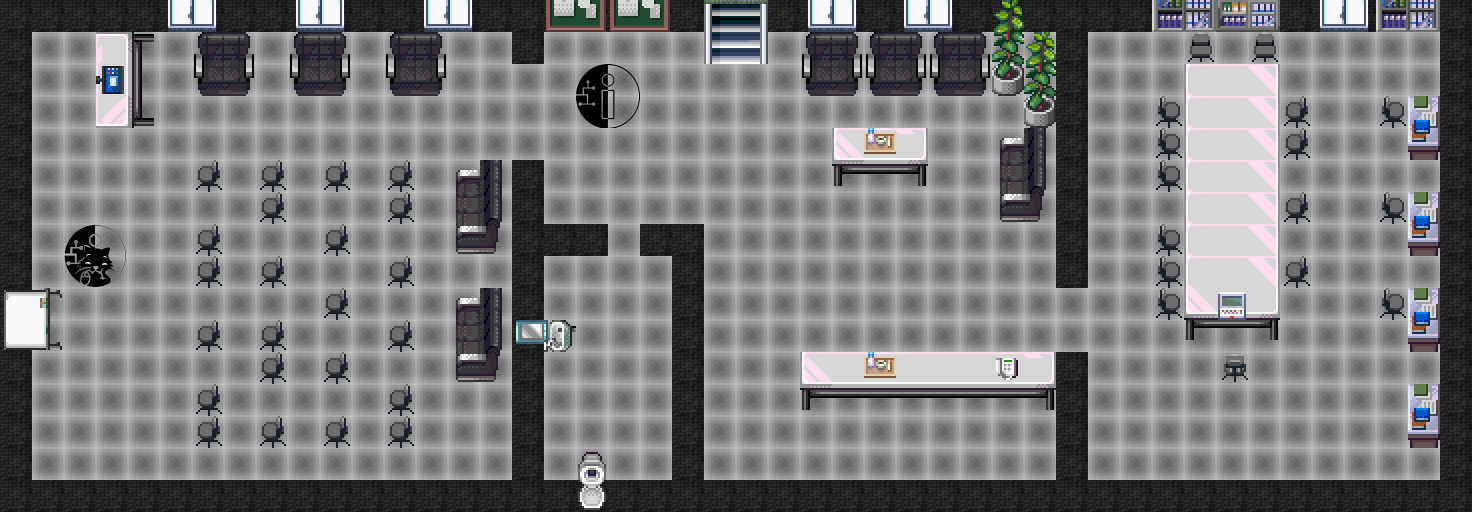
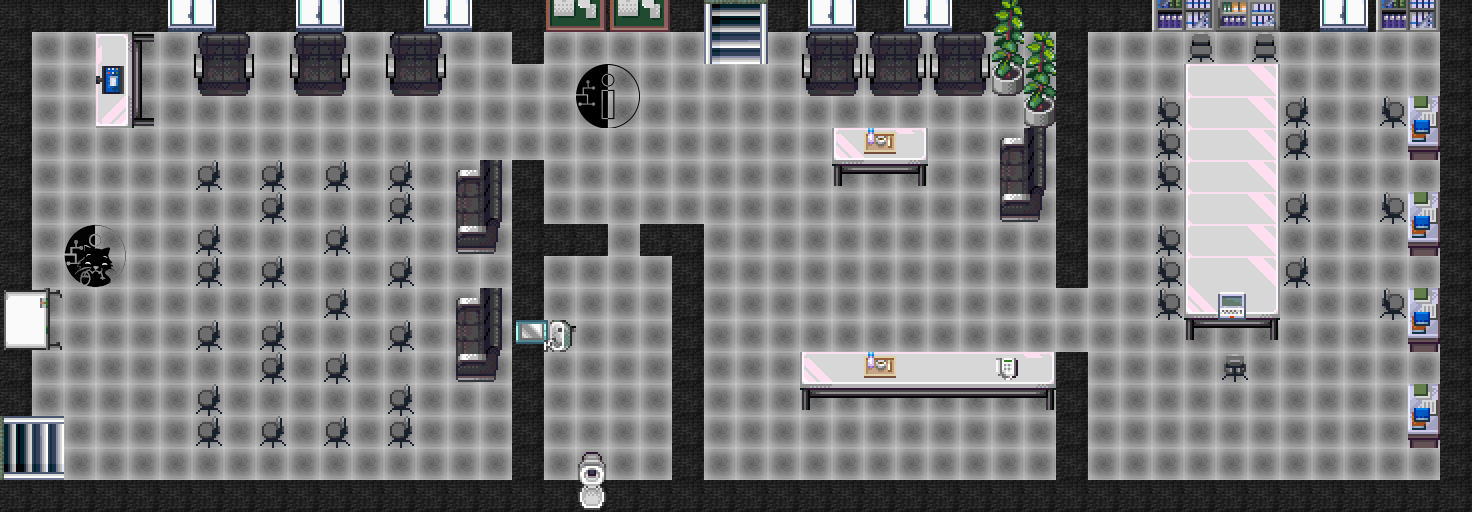
updated map images

Changed region(s): [[0.0, 0.8125, 0.0625, 0.9375]]

diff --git a/README.md b/README.md
@@ -3,7 +3,14 @@
 A map for [WorkAdventure](https://workadventu.re) showing 
 [Das Labor](https://das-labor.org) from Bochum.
 
+## EG
+
 ![Bild](map.png)
+
+## UG
+
+![Bild](basement.png)
+
 
 ## Tools you will need
 
